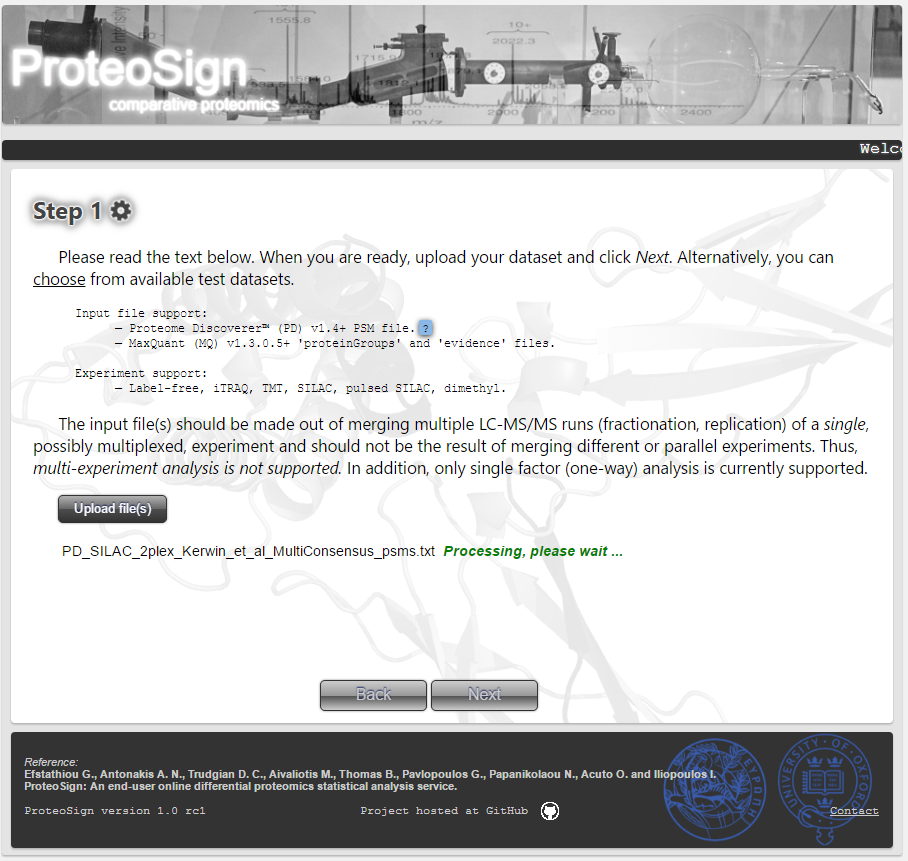
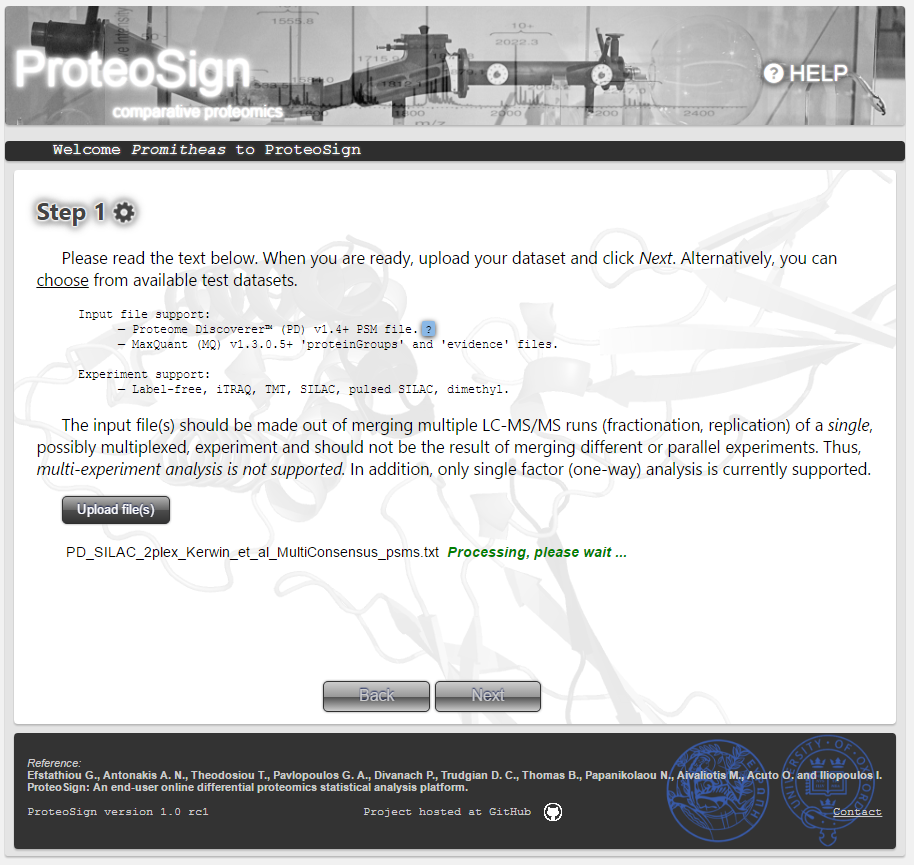
Help page screenshot update

diff --git a/help.html b/help.html
@@ -50,14 +50,14 @@
             </dt>
             <dd><img src="images/scrshot1_help.PNG"/></dd>
             <dt><h3>Software input definition page</h3>
-              The first step of any data analysis: defining the input data set. The input can either be uploaded via the <i>Upload file(s)</i> button or, just for demonstration pupropses, be selected from pre-uploaded files by clicking the <i>choose</i> hyperlink.
+              The first step of any data analysis: defining the input data set. The input can either be uploaded via the <i>Upload file(s)</i> button or, just for demonstration purposes, be selected from pre-uploaded files by clicking the <i>choose</i> hyperlink.
               <br><br>
               <span style="text-decoration: underline">Data file format:</span>
-              <br>ProteoSign accepts Proteome Discoverer or MaxQuant output data. For the case of MaxQuant, one has to simply upload the automatically generated <i>proteinGroups</i> and <i>evidence</i> output files. For the case of Proteome Discoverer, the output required is a single file, but it is not automatically generated and thus has to be generated by the user. This process is described inside a pop-up dialog which shows up when the user hovers the mouse over the blue-colored question mark. For the sake of completeness, the contents of that dialog, i.e. the description of the procedure, is shown below.
+              <br>ProteoSign accepts Proteome Discoverer or MaxQuant output data. For the case of MaxQuant, one has to simply upload the automatically generated <i>proteinGroups</i> and <i>evidence</i> output files. For the case of Proteome Discoverer, the output required is a single file, but it is not automatically generated and thus has to be generated by the user. This process is described inside a pop-up dialog which shows up when the user hovers the mouse over the blue-colored question mark. For the sake of completeness, the content of that dialog, i.e. the description of the procedure, is shown below.
             </dt>
             <dd><img src="images/scrshot2_help.PNG"/></dd>
             <dt><h3>Proteome Discoverer output file generation</h3>
-              The <em>peptide spectrum match</em> (PSM) file, comprising the necessary information required for protein quantitation, has to be produced manually through the PD desktop application (see the <em>Export&#x2192;To Text</em> option under the <em>File</em> menu).</p><p>The PSM file must be created from within a PD report which combines the information from all relevant MS analyses (i.e. replicates, conditions etc). Such a PD report is sometimes required to be created based on separate reports and is referred to as a multi-consensus report.</p><p>Before exporting the information, one <strong>must</strong> firstly disable peptide grouping (see relevant screen in Figure 1 on the right) and secondly edit the report's <em>Quantification Method</em> by configuring the <em>Ratio&nbsp;Calculation</em> parameters as shonw in the relevant screen in Figure 2 on the right.</p>
+              The <em>peptide spectrum match</em> (PSM) file, comprising the necessary information required for protein quantitation, has to be produced manually through the PD desktop application (see the <em>Export&#x2192;To Text</em> option under the <em>File</em> menu).</p><p>The PSM file must be created from within a PD report which combines the information from all relevant MS analyses (i.e. replicates, conditions etc). Such a PD report is sometimes required to be created based on separate reports and is referred to as a multi-consensus report.</p><p>Before exporting the information, one <strong>must</strong> firstly disable peptide grouping (see relevant screen in Figure 1 on the right) and secondly edit the report's <em>Quantification Method</em> by configuring the <em>Ratio&nbsp;Calculation</em> parameters as shown in the relevant screen in Figure 2 on the right.</p>
             </dt>
             <dd>
               <figure style="width: 77%">
@@ -88,37 +88,53 @@
               <br><br>
               Usage note: When multiple raw files are selected, if just the biological replicate is entered, the software will assume that the selected raw files are technical replicates of the entered biological replicate. If both the biological and technical replicates are entered, the software will assume that the selected raw files are fractions of the entered technical replicate.
             </dt>
-            <dd><img src="images/scrshot5_help.PNG"/></dd>
-			<dt><h3>Label Free conditions definition</h3>
-              In the case of Label Free data the figure on the right illustrates the condition assignment procedure: the user first selects the table rows (i.e. raw files) and - using the right click - selects <i>Assign Condition</i>. Also notice the extended functionality provided by this menu.
+			<dd><img src="images/scrshot5_help.PNG"/></dd>
+			<dt><h3>Experimental design definition page (continued): Label-free experiments</h3>
+              In the case of label-free data, the figures on the right illustrate the condition assignment procedure: the user first selects the table rows (i.e. raw files) and by right-click, selects <i>Assign Condition</i> from the popup menu, after which he is asked to either define new condition or choose one defined previously.
             </dt>
-            <dd><img src="images/scrshotan1_help.PNG"/></dd>
-			<dt><h3>Label Free conditions definition (continued)</h3>
-              The user is then asked to type the <i>name</i> of the condition or select one he/she typed before. By pressing OK the condition is assigned to the selected raw files.
-            </dt>
-            <dd><img src="images/scrshotan2_help.PNG"/></dd>
+			<dd>
+              <figure style="width: 800px">
+                <img src="images/scrshotan1_help.PNG" style="width: 100%;"/>
+                <figcaption style="text-align: center;"></figcaption>
+              </figure>
+              <figure style="width: 800px; margin-top: 30px">
+                <img src="images/scrshotan2_help.PNG" style="width: 100%;"/>
+                <figcaption style="text-align: center;"></figcaption>
+              </figure>
+            </dd>
+            
             <dt><h3>Experimental parameters definition page</h3>
               Here the user can enter some meta information regarding the experiment (<i>Experiment ID</i> and <i>Experiment description</i>) but most importantly choose the set of biological conditions/treatments to compare against each other. Typically all conditions are selected here via the <i>Conditions to compare</i> list. The <i>advanced parameters</i> section comprises options for filtering-out certain kinds of measurements. More details can be found by hovering the mouse over the question mark icon (at the actual page).
               <br><br>
               By clicking <i>Submit</i> the user initiates the statistical analysis.
             </dt>
-			<dd><img src="images/scrshot6_help.PNG"/></dd>
-			<dt><h3>Advanced Options</h3>
-              In case more than one labels was used for the same condition (usual in TMT experiments) the user can mark these labels and select <i>Same Condition</i> as illustrated on the picture using the right click. Afterwards, the user is asked to name the respective condition (e.g. Lung_ADC).
+		<dd><img src="images/scrshot6_help.PNG"/></dd>
+            <dt><h3>Advanced Options</h3>
+              In case more than one labels was used for the same condition (common in TMT experiments) the user can mark these labels and select <i>Same Condition</i> as illustrated on the picture by right-click. Afterwards, the user is asked to name the respective condition (e.g. Lung_ADC). The conditions that were labelled by more than one labels are always displayed in <strong>bold</strong>. In order to revert such a condition back to its original labels select <i>Restore Conditions</i>.
             </dt>
-            <dd><img src="images/scrshotan3_help.PNG"/></dd>
-			<dt><h3>Advanced Options (continued)</h3>
-              The conditions that were labelled by more than one labels are always displayed in <strong>bold</strong>. In order to expand such a condition back to its original labels select <i>Restore Conditions</i> as illustrated on the right.
+            <dd>
+              <figure style="width: 800px">
+                <img src="images/scrshotan3_help.PNG" style="width: 100%;"/>
+                <figcaption style="text-align: center;"></figcaption>
+              </figure>
+              <figure style="width: 800px; margin-top: 30px">
+                <img src="images/scrshotan4_help.PNG" style="width: 100%;"/>
+                <figcaption style="text-align: center;"></figcaption>
+              </figure>
+            </dd>
+            <dt><h3>Advanced Options (continued): Label swap</h3>
+              In the case of experiments where <i>label swap</i> is utilized,  the user should declare the swap by pressing <i>Label swap options...</i> as shown on the figure. Then, from within the popup window titled <i>Label Swap Assignment</i>, the user should specify the biological and technical replicates involved as well as the labels swaped and press the <i>Add</i> button. The list on the top-right shows the relevant raw files and the list at the bottom the declared label swaps.
             </dt>
-            <dd><img src="images/scrshotan4_help.PNG"/></dd>
-			<dt><h3>Advanced Options (label swap)</h3>
-              ProteoSign supports experiments that contain <i>label swap</i>. In such a case, the user should declare the swap by pressing <i>Label swap options...</i> as shown on the right.
-            </dt>
-            <dd><img src="images/scrshotan5_help.PNG"/></dd>
-			<dt><h3>Advanced Options (label swap)</h3>
-              Using the window <i>Label Swap Assignment</i> the user must specify the biological and technical replicate where the label swap has been done. Then, he/she must specify the labels that were swapped and press the <i>Add</i> button. The list on top shows the raw files that derive from the selected replicates and the one on the bottom the label swaps that the user has declared.
-            </dt>
-            <dd><img src="images/scrshotan7_help.PNG"/></dd>
+            <dd>
+              <figure style="width: 800px">
+                <img src="images/scrshotan5_help.PNG" style="width: 100%;"/>
+                <figcaption style="text-align: center;"></figcaption>
+              </figure>
+              <figure style="width: 800px; margin-top: 30px">
+                <img src="images/scrshotan7_help.PNG" style="width: 100%;"/>
+                <figcaption style="text-align: center;"></figcaption>
+              </figure>
+            </dd>	      
             <dt><h3>Statistical analysis wait page</h3>
               Here the user waits for the software to finish the statistical analysis, while presented with current <i>Nature Methods</i> articles hyperlinks. When the analysis is finished, the user is navigated automatically to the next page (see below).
             </dt>
@@ -132,7 +148,7 @@
             </dt>
             <dd><img src="images/scrshot9_help.PNG"/></dd>
             <dt><h3>Sofware output files</h3>
-              The figure on the right shows the output files generated for the demo data set used throughput this Help page. The <i>PDF</i> files contain the the aforementioned plots. For each of the text files, a brief description is provided below.
+              The figure on the right shows the output files generated for the demo data set used throughout this Help page. The <i>PDF</i> files contain the aforementioned plots. For each of the text files, a brief description is provided below.
             </dt>
             <dd><img src="images/scrshot10_help.PNG"/></dd>
             <dt><h3>Log file</h3>
@@ -183,7 +199,7 @@
             </dt>
             <dd><img src="images/scrshot18_help.PNG"/></dd>
             <dt><h3>Top results file</h3>
-              A trimmed version of the aforementioned results file comprising only the statistically significant results (differentially expressed protiens).
+              A trimmed version of the aforementioned results file comprising only the statistically significant results (differentially expressed proteins).
             </dt>
             <dd><img src="images/scrshot19_help.PNG"/></dd>
             <dt><h3>Pre-normalization intensities PDF file</h3>

diff --git a/index.html b/index.html
@@ -212,7 +212,7 @@
 			<div class="main_div main_footer">
 				<p>
 					<em>Reference:</em><br>
-					<a href="#" target="_blank"><strong>Efstathiou G., Antonakis A. N., Theodosiou T., Trudgian D. C., Aivaliotis M., Thomas B., Pavlopoulos G. A., Papanikolaou N., Acuto O. and Iliopoulos I.<br>ProteoSign: An end-user online differential proteomics statistical analysis platform.</strong><br></a>
+					<a href="#" target="_blank"><strong>Efstathiou G., Antonakis A. N., Theodosiou T., Pavlopoulos G. A., Divanach P., Trudgian D. C., Thomas B., Papanikolaou N., Aivaliotis M., Acuto O. and Iliopoulos I.<br>ProteoSign: An end-user online differential proteomics statistical analysis platform.</strong><br></a>
 				<p>
 				<span id="proteosignversion" style='font-family: "Courier New"; display: block; float: left'></span>
 				<span id="githubproject" style='font-family: "Courier New"; margin: 0 18%;'><a href="https://github.com/yorgodillo/ProteoSign" target="_blank">Project hosted at GitHub <img src="images/github_icon.png" height="30" style="position: relative; vertical-align: top; margin: -0.7em 0;"></img></a></span>
